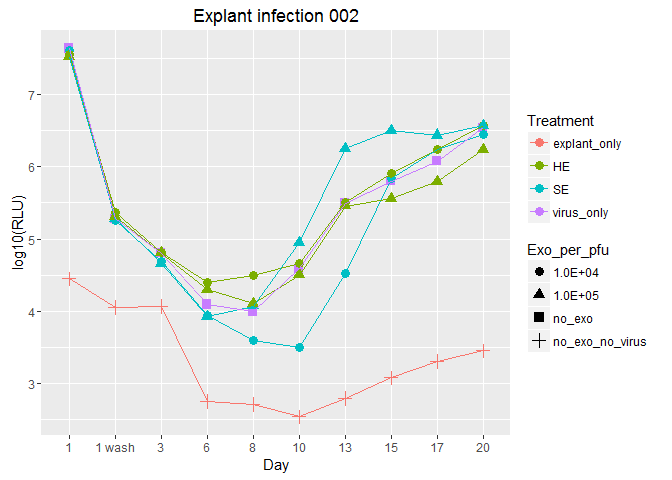
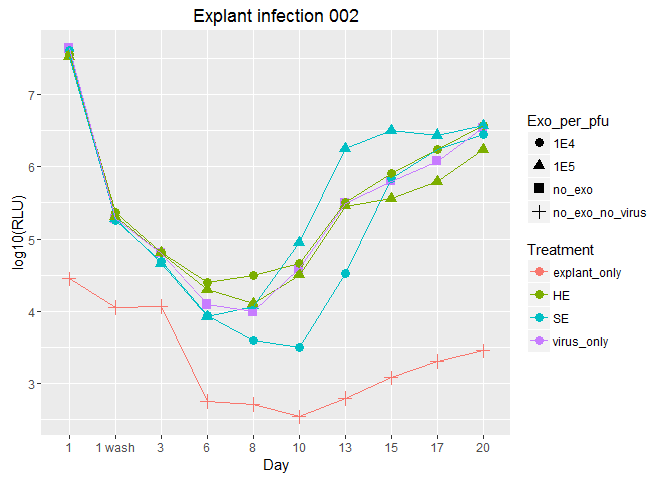
Added data from infection 006 and made some adjustments to how the exo per pfu shows up.

diff --git a/explant_infection_experiment_analysis.md b/explant_infection_experiment_analysis.md
@@ -84,6 +84,25 @@ PROTOCOL DEVIATIONS:
 
 ![](explant_infection_experiment_analysis_files/figure-markdown_github/infection005-1.png)
 
-Compilations of results from multiple experiments arranged in a variety of ways:
+Explant Infection 006:
+======================
+
+-   Concentrations: 1E5,1E4, 1E3 and 5E4 exosomes per pfu, 1:50 seminal sup.
+
+-   Exosomes used: SE and HE
+
+-   Only did virus (vNL\_sNLuc.6ATRi.B.Bal.ecto) and exosome/sup preincubation (no exos + explant preinc)
+
+-   Did 2 reps for each condition
+
+PROTOCOL DEVIATIONS:
+
+-   Did not collect sups for conditions 1, 5, 9, 2, 6 and 10 on day 10 (by mistake) but did replace media.
+
+First check how the replicates look ![](explant_infection_experiment_analysis_files/figure-markdown_github/checking%20replicates-1.png)
+
+![](explant_infection_experiment_analysis_files/figure-markdown_github/plot%20avg%20reps-1.png)
+
+Compilations of results from multiple experiments (not including 006) arranged in a variety of ways:
 
 ![](explant_infection_experiment_analysis_files/figure-markdown_github/compilation%20plots-1.png)![](explant_infection_experiment_analysis_files/figure-markdown_github/compilation%20plots-2.png)
